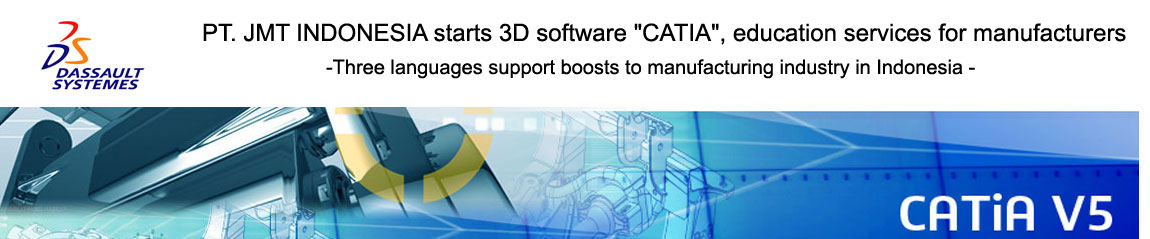
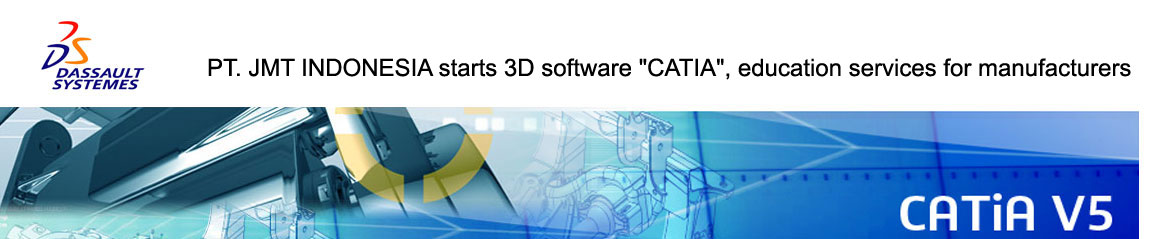
#fix

Changed region(s): [[0.1826, 0.2343, 1.0, 0.3222], [0.1522, 0.0879, 1.0, 0.1757]]

diff --git a/news_jmt_indonesia_starts_3d_software.html b/news_jmt_indonesia_starts_3d_software.html
@@ -82,7 +82,9 @@
         <div class="row">
         <div class="container">
     	<div class="container">
-        <img class="blog-post" src="images/cad/new1.jpg" align="center" alt=""><!-- <b><h4><center>-Three languages support boosts to manufacturing industry in Indonesia -</center></h4></b> -->
+        <img class="blog-post" src="images/cad/new1.jpg" align="center" alt=""><b>
+</br>
+<h4>-Three languages support boosts to manufacturing industry in Indonesia -</h4></b>
         <p style="text-align:justify"> JM Technology Inc.(JMT) announced today that its foreign subsidiary PT. JMT INDONESIA (“JMTI”, Jakarta)
 has started Education Services for 3D CAD software “CATIA” in 3 languages (Japanese, English, and
 Indonesian), in collaboration with Fasotec. Co., Ltd. (“Fasotec”, Headquarters: Chiba, Chiba Prefecture,
